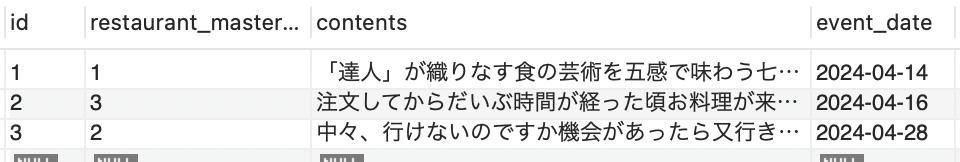
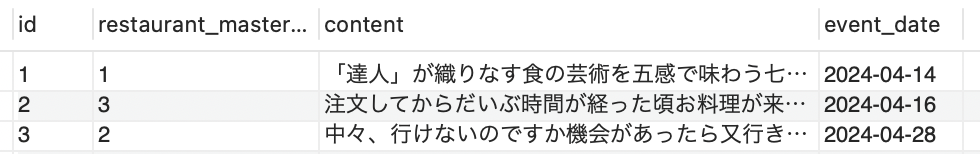
画像差し替え・体裁を整える・公開

diff --git a/articles/window_method.md b/articles/window_method.md
@@ -3,7 +3,7 @@ title: "【備忘録】ウィンドウ関数の活用例"
 emoji: "🪟"
 type: "tech" # tech: 技術記事 / idea: アイデア
 topics: ["SQL","MySQL"]
-published: false
+published: true
 ---
 
 仕事でBIツール [MetaBase](https://www.metabase.com/)を使用し、
@@ -42,7 +42,7 @@ SELECT
 FROM LoadSample;
 ```
 
-(参考書籍 「2 必ずわかるウィンドウ関数 フレーム句を使って違う行を自分の行に持ってくる」章のSQL文にPARTITION BY句を追加)
+（参考書籍「2 必ずわかるウィンドウ関数 フレーム句を使って違う行を自分の行に持ってくる」章のSQL文にPARTITION BY句を追加）
 
 `server_id`(サーバー)ごとの評価点数の過去1週間の移動平均を取得するクエリです。
 `PARTITION BY`句で`server_id`ごとにデータを分割（①）し、
@@ -76,7 +76,7 @@ FROM LoadSample;
 | UNBOUNDEDFOLLOWING | 無制限に下るほうへ移動する                                        |
 | CURRENTROW         | 現在行                                                            |
 
-(参考書籍「2 必ずわかるウィンドウ関数 フレーム句を使って違う行を自分の行に持ってくる」章より引用)
+（参考書籍「2 必ずわかるウィンドウ関数 フレーム句を使って違う行を自分の行に持ってくる」章より引用）
 
 ## 具体的な利用ケース
 
@@ -85,23 +85,23 @@ FROM LoadSample;
 
 ![ER図](/images/restaurant_er.png)
 
-restaurant_mastersテーブル
+### restaurant_mastersテーブル
 
 - name: 飲食店名
 
 ![restaurant_masters](/images/restaurant_masters.png)
 
-restaurant_ratingsテーブル
+### restaurant_ratingsテーブル
 
-- restaurant_master_id: 飲食店ID(restaurant_mastersテーブルの外部キー)
+- restaurant_master_id: 飲食店マスタID
 - rating_date: 評価日
 - rating_score: 評価点数
 
 ![restaurant_ratings](/images/restaurant_ratings.png)
 
-restaurant_eventsテーブル
+### restaurant_eventsテーブル
 
-- restaurant_master_id: 飲食店ID(restaurant_mastersテーブルの外部キー)
+- restaurant_master_id: 飲食店マスタID
 - content:ニュースや口コミの内容
 - event_date:発生日
 
@@ -131,12 +131,12 @@ FROM
     ) as after_score,
     event_date,
     rr.rating_date
-    from horecast_development.restaurant_ratings rr
+    from restaurant_ratings rr
     join restaurant_masters rm
     on rr.restaurant_master_id = rm.id
     join restaurant_events re
     on re.restaurant_master_id = rm.id
-  ) tmp
+  ) as events
 where rating_date = event_date 
 order by master_id;
 ```
@@ -168,7 +168,7 @@ FROM
 
 ### 3. ランキングを取得する
 
-飲食店ごとの評価点数のランキングを取得するクエリです。
+飲食店ごとの評価点数の順位を取得するクエリです。
 
 ```sql
 SELECT
